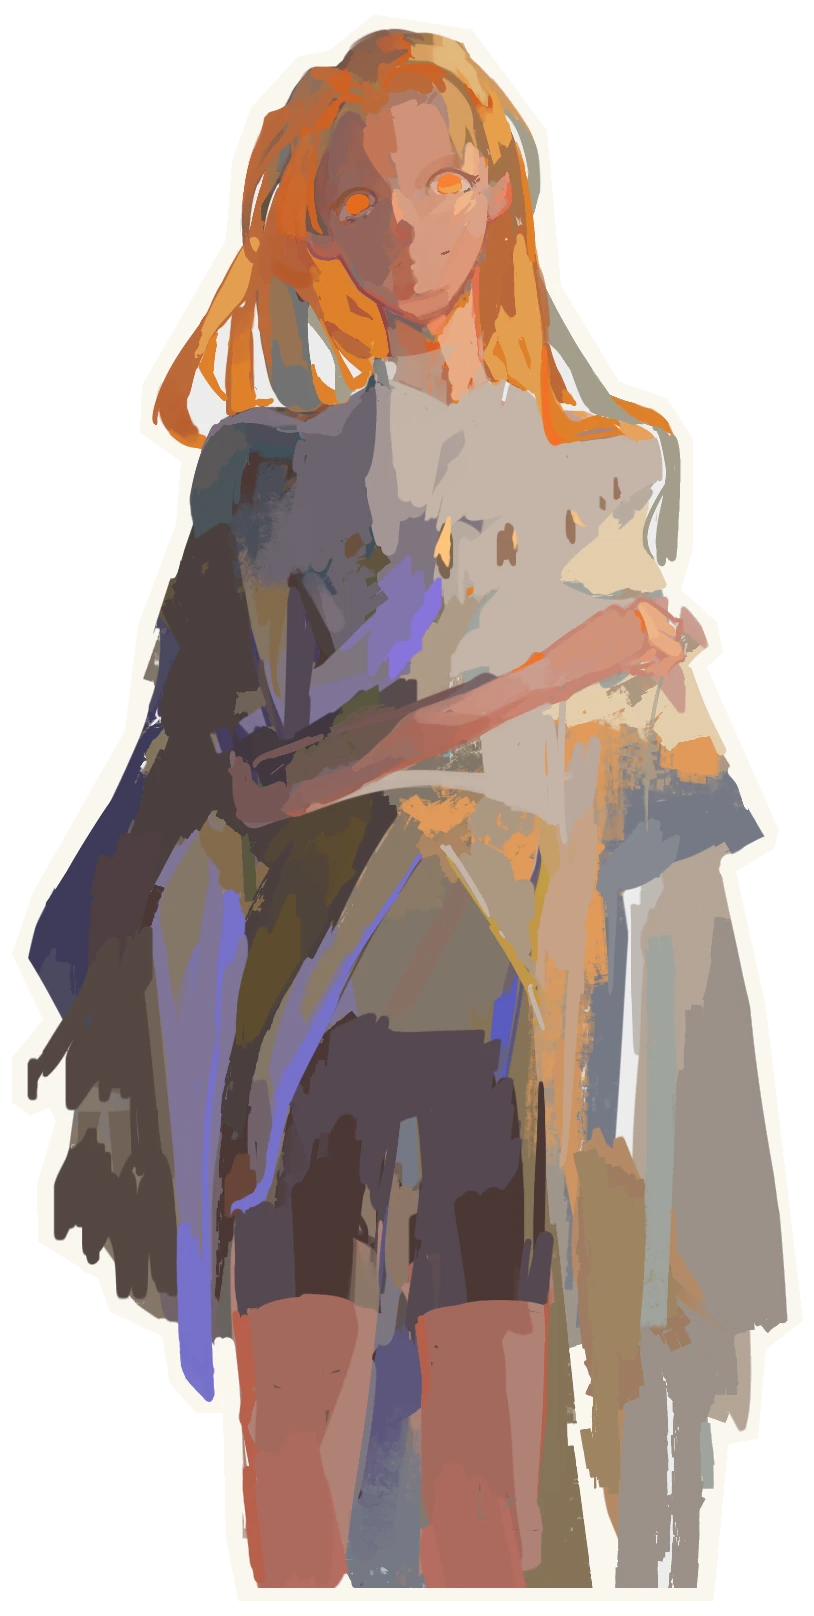
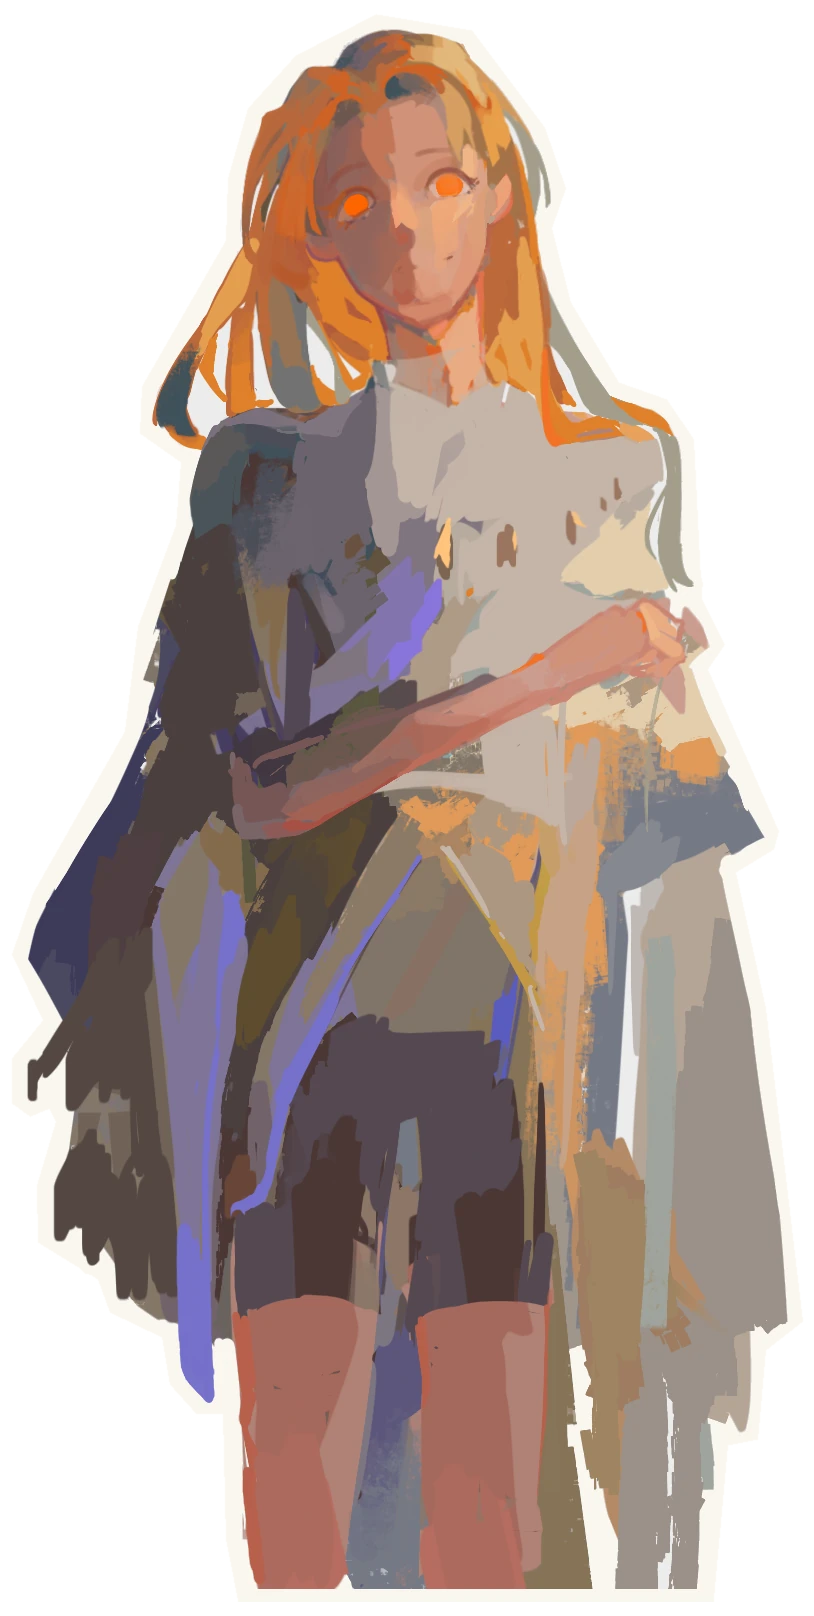
Aurelia: new classic portrait, cut the standard way
Claude-Session: https://claude.ai/code/session_01LopHKLE1Hy6BZKLVUBMfVV

diff --git a/characters.html b/characters.html
@@ -651,7 +651,7 @@ const PEOPLE = [
     ]
   },
   {
-    id:"aurelia", name:"Aurelia", full:"Aurelia Helios", img:"images/aurelia-fig.webp?v=3", fig:[814,1616], accent:0xffd08e,
+    id:"aurelia", name:"Aurelia", full:"Aurelia Helios", img:"images/aurelia-fig.webp?v=4", fig:[814,1616], accent:0xffd08e,
     glance:[
       ["家族","Helios"],
       ["MBTI","ENTP"],
